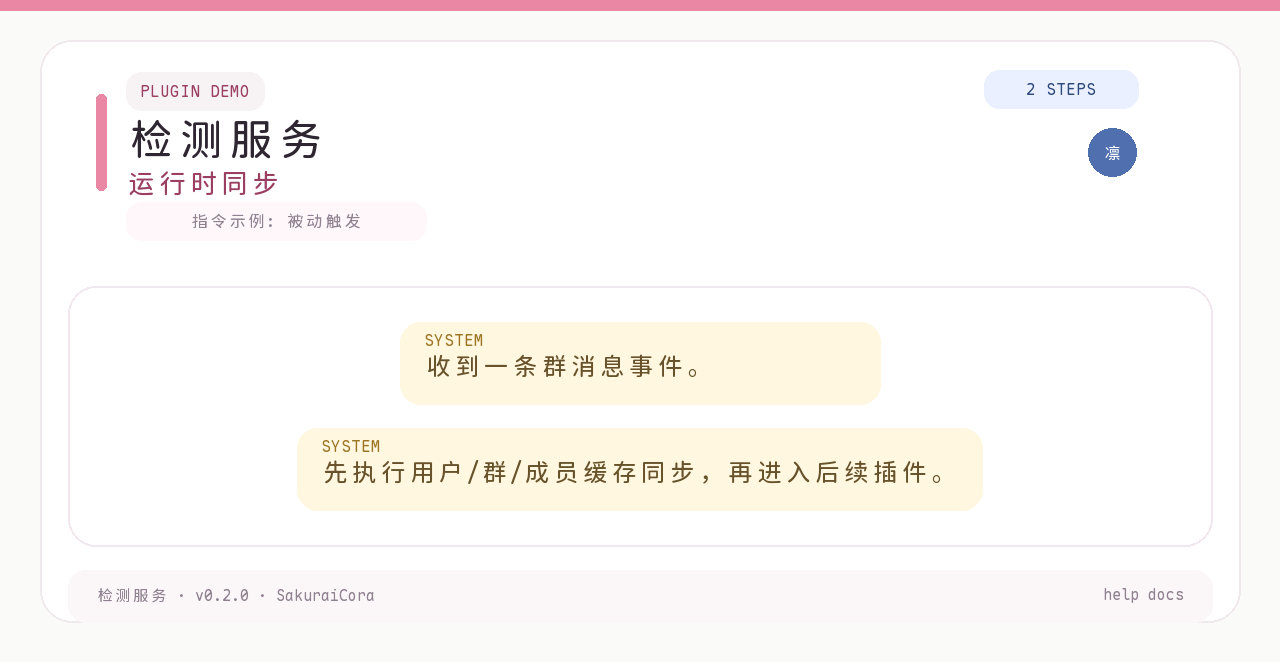
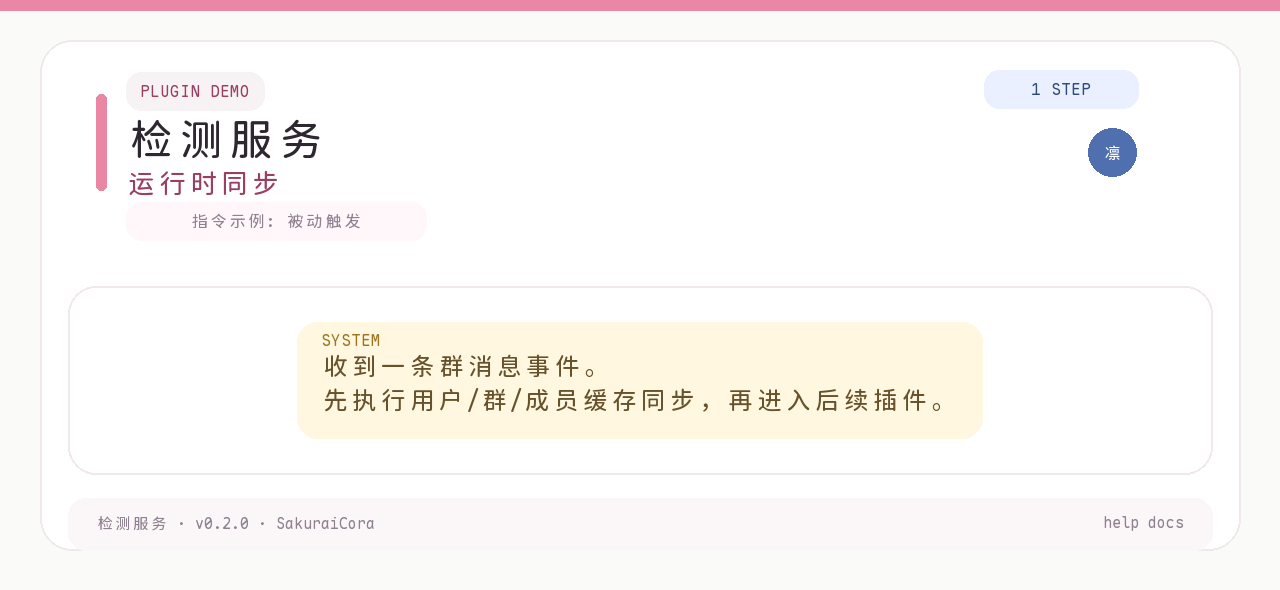
📝 docs(demo): 区分消息换行与多条发送

diff --git a/src/lib/plugin_docs.py b/src/lib/plugin_docs.py
@@ -509,18 +509,25 @@ def _parse_flow_section(block: str) -> tuple[str, tuple[DocsDemoTurn, ...]]:
         cleaned = (block[: fence_match.start()] + block[fence_match.end() :]).strip()
         for line in fence_match.group(1).splitlines():
             stripped = line.strip()
-            if not stripped or ":" not in stripped:
+            if not stripped:
                 continue
-            speaker, text = stripped.split(":", 1)
-            normalized = speaker.strip().upper()
-            if normalized not in {"USER", "BOT", "SYSTEM"}:
-                continue
-            demo_turns.append(
-                DocsDemoTurn(
-                    cast(Literal["USER", "BOT", "SYSTEM"], normalized),
-                    text.strip(),
+            if ":" in stripped:
+                speaker, text = stripped.split(":", 1)
+                normalized = speaker.strip().upper()
+                if normalized in {"USER", "BOT", "SYSTEM"}:
+                    demo_turns.append(
+                        DocsDemoTurn(
+                            cast(Literal["USER", "BOT", "SYSTEM"], normalized),
+                            text.strip(),
+                        )
+                    )
+                    continue
+            if demo_turns:
+                previous = demo_turns[-1]
+                demo_turns[-1] = DocsDemoTurn(
+                    previous.speaker,
+                    f"{previous.text}\n{stripped}",
                 )
-            )
     return cleaned.strip(), tuple(demo_turns)
 
 
@@ -1391,16 +1398,16 @@ class DemoImageRenderer:
     def _wrap_text(self, text: str, *, max_width: int) -> list[str]:
         draw = ImageDraw.Draw(Image.new("RGB", (10, 10), "#FFFFFF"))
         lines: list[str] = []
-        current = ""
-        for char in text:
-            candidate = current + char
-            bbox = draw.textbbox((0, 0), candidate, font=self.body_font)
-            if bbox[2] - bbox[0] <= max_width or not current:
-                current = candidate
-                continue
-            lines.append(current)
-            current = char
-        if current:
+        for paragraph in text.splitlines():
+            current = ""
+            for char in paragraph:
+                candidate = current + char
+                bbox = draw.textbbox((0, 0), candidate, font=self.body_font)
+                if bbox[2] - bbox[0] <= max_width or not current:
+                    current = candidate
+                    continue
+                lines.append(current)
+                current = char
             lines.append(current)
         return lines or [text]
 

diff --git a/tests/test_plugin_docs.py b/tests/test_plugin_docs.py
@@ -168,6 +168,62 @@ BOT: 操作完成
     assert any(segment.type == "image" for segment in message)
 
 
+def test_load_plugin_doc_bundle_distinguishes_message_newlines_from_turns(
+    tmp_path: Path,
+) -> None:
+    source = tmp_path / "README.MD"
+    source.write_text(
+        """
+# 测试插件
+
+## 概览
+用于测试 demo 换行。
+
+## 权限与触发
+- 触发方式: 指令触发
+- 权限: 普通用户
+
+## 子功能目录
+- `flow` 完整流程: 测试 demo 换行。
+
+## 子功能详情
+### `flow` 完整流程
+- 摘要: 测试 demo 换行。
+- 指令: `#flow`
+#### 说明
+这里是说明。
+#### 前置条件
+无
+#### 完整流程
+```demo
+USER: #flow
+BOT: 第一条消息第一行
+第一条消息第二行
+BOT: 第二条消息
+```
+#### 失败情况
+无
+""".strip(),
+        encoding="utf-8",
+    )
+
+    bundle = load_plugin_doc_bundle(
+        source=source,
+        default_name="测试插件",
+        default_description="desc",
+        trigger=TriggerType.COMMAND,
+        permission=Permission.NORMAL,
+    )
+
+    feature = bundle.index[0]
+
+    assert len(feature.demo_turns) == 3
+    assert feature.demo_turns[1].speaker == "BOT"
+    assert feature.demo_turns[1].text == "第一条消息第一行\n第一条消息第二行"
+    assert feature.demo_turns[2].speaker == "BOT"
+    assert feature.demo_turns[2].text == "第二条消息"
+
+
 def test_build_readme_docs_returns_ambiguous_hint(tmp_path: Path) -> None:
     source = tmp_path / "README.MD"
     source.write_text(

diff --git a/src/plugins/admin/docs/README.MD b/src/plugins/admin/docs/README.MD
@@ -28,7 +28,7 @@
 ```demo
 USER: #help 管理模块总览 group
 BOT: 群组管理负责处理群授权、封禁、退群和状态查询。
-BOT: 继续发送 #help 群组管理模块 <子功能名> 查看 demo。
+继续发送 #help 群组管理模块 <子功能名> 查看 demo。
 ```
 #### 失败情况
 如果直接把所有管理动作塞进总览文档，帮助消息会过长且不利于维护。
@@ -47,7 +47,7 @@ BOT: 继续发送 #help 群组管理模块 <子功能名> 查看 demo。
 ```demo
 USER: #help 管理模块总览 user
 BOT: 用户管理支持 ban / unban / status 三类操作。
-BOT: 继续发送 #help 用户管理模块 ban 查看完整流程。
+继续发送 #help 用户管理模块 ban 查看完整流程。
 ```
 #### 失败情况
 若后续新增动作，记得同步更新本总览和子模块 README。
@@ -66,7 +66,7 @@ BOT: 继续发送 #help 用户管理模块 ban 查看完整流程。
 ```demo
 USER: #help 管理模块总览 invite
 BOT: 邀请管理支持 list / approve / reject / ignore / log。
-BOT: 继续发送 #help 邀请管理模块 approve 查看完整流程。
+继续发送 #help 邀请管理模块 approve 查看完整流程。
 ```
 #### 失败情况
 如果项目当前没有邀请记录，详情页会说明如何用 list 或日志功能排查。
@@ -85,7 +85,7 @@ BOT: 继续发送 #help 邀请管理模块 approve 查看完整流程。
 ```demo
 USER: #help 管理模块总览 i18n
 BOT: 语言管理支持 show / default / set / clear / list。
-BOT: 继续发送 #help 语言管理模块 set 查看完整流程。
+继续发送 #help 语言管理模块 set 查看完整流程。
 ```
 #### 失败情况
 如果没有精确定位到子模块，帮助中心会先返回歧义或插件详情页。

diff --git a/src/plugins/help/docs/README.MD b/src/plugins/help/docs/README.MD
@@ -27,10 +27,10 @@
 ```demo
 USER: #help
 BOT: ===== 插件帮助索引 =====
-BOT: [core]
-BOT: - 帮助中心: 统一汇总插件文档，并按插件 metadata.docs 自动注册。
-BOT: [fun]
-BOT: - 吹水记录: 群聊活跃记录、画像、榜单与活动赛季。
+[core]
+- 帮助中心: 统一汇总插件文档，并按插件 metadata.docs 自动注册。
+[fun]
+- 吹水记录: 群聊活跃记录、画像、榜单与活动赛季。
 ```
 #### 失败情况
 如果当前没有可展示插件，帮助中心会返回“当前暂无可展示插件文档”。
@@ -49,10 +49,10 @@ BOT: - 吹水记录: 群聊活跃记录、画像、榜单与活动赛季。
 ```demo
 USER: #help 吹水记录
 BOT: ===== 吹水记录 =====
-BOT: 触发方式: 指令触发
-BOT: 权限: 普通用户
-BOT: 子功能目录:
-BOT: - profile (查看个人画像)
+触发方式: 指令触发
+权限: 普通用户
+子功能目录:
+- profile (查看个人画像)
 ```
 #### 失败情况
 如果插件名不存在，会提示先发送 `#help` 查看总表；如果命中多个插件，会返回候选列表。
@@ -71,8 +71,8 @@ BOT: - profile (查看个人画像)
 ```demo
 USER: #help 吹水记录 ranking
 BOT: ===== 吹水记录 / 查看周期榜单 =====
-BOT: 说明: 选择周榜、月榜、季榜、年榜或总榜查看排行。
-BOT: [附带一张完整 demo 图]
+说明: 选择周榜、月榜、季榜、年榜或总榜查看排行。
+[附带一张完整 demo 图]
 ```
 #### 失败情况
 如果子功能名不存在，会提示“未找到子功能文档”；如果命中多个子功能，会返回歧义候选。

diff --git a/src/plugins/notice/docs/group/README.MD b/src/plugins/notice/docs/group/README.MD
@@ -28,7 +28,7 @@
 ```demo
 SYSTEM: 机器人被踢出群 114514。
 BOT: [私聊超管] 群组被踢出
-BOT: 不好，被扔出来了，已自动拉黑...
+不好，被扔出来了，已自动拉黑...
 ```
 #### 失败情况
 如果通知发送失败，只会影响告警，不会阻止状态清理。
@@ -47,7 +47,7 @@ BOT: 不好，被扔出来了，已自动拉黑...
 ```demo
 SYSTEM: 群 114514 对机器人执行了禁言。
 BOT: [私聊超管] 群组禁言
-BOT: 检测到禁言行为，已自动退出群聊...
+检测到禁言行为，已自动退出群聊...
 ```
 #### 失败情况
 若某些连坐退群动作失败，会在通知里带上失败记录。
@@ -65,7 +65,7 @@ BOT: 检测到禁言行为，已自动退出群聊...
 整个同步过程对用户无感知。
 ```demo
 SYSTEM: 机器人加入新群 114514。
-SYSTEM: 自动执行群成员同步。
+自动执行群成员同步。
 ```
 #### 失败情况
 如果同步失败，应通过日志排查，不会主动给普通群成员提示。
@@ -83,7 +83,7 @@ SYSTEM: 自动执行群成员同步。
 自动更新缓存，不向用户输出文案。
 ```demo
 SYSTEM: 群名从“旧群名”改为“新群名”。
-SYSTEM: 已同步群缓存名称。
+已同步群缓存名称。
 ```
 #### 失败情况
 若缓存更新失败，只能通过日志排查，当前不会主动回退。

diff --git a/src/plugins/admin/docs/invite/README.MD b/src/plugins/admin/docs/invite/README.MD
@@ -48,7 +48,7 @@ BOT: [发送一张待处理邀请列表图片]
 ```demo
 USER: #admin invite approve -g 114514
 BOT: 已同意群聊邀请 17
-BOT: 群号：114514
+群号：114514
 ```
 #### 失败情况
 若邀请已被处理或无法定位到记录，会直接返回失败原因。
@@ -67,7 +67,7 @@ BOT: 群号：114514
 ```demo
 USER: #admin invite reject --all
 BOT: ========== 批量拒绝 ==========
-BOT: 统计: 共拒绝了 3 个待处理邀请。
+统计: 共拒绝了 3 个待处理邀请。
 ```
 #### 失败情况
 如果当前没有待拒绝邀请，会提示“当前没有需要拒绝的待处理邀请哦”。
@@ -86,7 +86,7 @@ BOT: 统计: 共拒绝了 3 个待处理邀请。
 ```demo
 USER: #admin invite ignore -g 114514
 BOT: ======= 操作成功: 已忽略 =======
-BOT: 群号：114514
+群号：114514
 ```
 #### 失败情况
 如果当前没有待忽略邀请，会返回对应提示。

diff --git a/src/hooks/docs/processor/README.MD b/src/hooks/docs/processor/README.MD
@@ -25,7 +25,7 @@
 同步动作对用户透明。
 ```demo
 SYSTEM: 收到一条群消息事件。
-SYSTEM: 先执行用户/群/成员缓存同步，再进入后续插件。
+先执行用户/群/成员缓存同步，再进入后续插件。
 ```
 #### 失败情况
 若缓存依赖的 API 不可用，可能导致部分字段缺失，需要通过日志排查。
@@ -43,7 +43,7 @@ SYSTEM: 先执行用户/群/成员缓存同步，再进入后续插件。
 按固定顺序检查用户忽略、超管放行、全局黑名单、群授权和群黑名单。
 ```demo
 SYSTEM: 收到一条来自未授权群的消息。
-SYSTEM: runtime-check 判定群聊未授权，事件被提前忽略。
+runtime-check 判定群聊未授权，事件被提前忽略。
 ```
 #### 失败情况
 如果群缓存缺失且无法补齐，默认会阻止群事件继续进入业务插件。

diff --git a/docs/plugin-demo-visual-checklist.md b/docs/plugin-demo-visual-checklist.md
@@ -15,6 +15,7 @@ Use this checklist after regenerating plugin demo PNG files.
 - Bounds: no text, avatar, chip, bubble, or footer content leaves its container.
 - Overlap: no color block covers text, avatars, bubbles, panel borders, or footer text.
 - Text: long commands and replies wrap cleanly without clipping or touching edges.
+- Message semantics: one sent message with newlines uses one speaker line plus continuation lines; multiple sent messages repeat `USER:`, `BOT:`, or `SYSTEM:`.
 - Bubbles: USER, BOT, and SYSTEM bubbles fit content without looking oversized.
 - Color: keep the visible palette restrained to white, sakura pink, indigo, muted gray, and soft system yellow.
 - Hierarchy: plugin title is strongest, feature title is secondary, command and footer are muted.

diff --git a/src/plugins/water/docs/README.MD b/src/plugins/water/docs/README.MD
@@ -85,7 +85,7 @@ BOT: [发送月榜图片]
 ```demo
 USER: #水王 成就
 BOT: ===== 成就总览 =====
-BOT: [成就进度文本或图片]
+[成就进度文本或图片]
 ```
 #### 失败情况
 如果当前没有足够数据，可能会只返回基础提示，不会展示完整进度。
@@ -143,8 +143,8 @@ BOT: 已记录为“同意合并”啦
 ```demo
 USER: #water help
 BOT: ===== Water Admin =====
-BOT: 1. settle [YYYYMMDD] [-f|--force]
-BOT: 2. pardon <penalty_id>
+1. settle [YYYYMMDD] [-f|--force]
+2. pardon <penalty_id>
 USER: #water settle 20260608 -f
 BOT: Water 结算任务执行中，请稍候...
 ```

diff --git a/src/plugins/admin/docs/i18n/README.MD b/src/plugins/admin/docs/i18n/README.MD
@@ -29,8 +29,8 @@
 ```demo
 USER: #admin i18n show 114514
 BOT: ===== i18n 状态 =====
-BOT: 全局默认: zh-CN
-BOT: 生效语言: lzh
+全局默认: zh-CN
+生效语言: lzh
 ```
 #### 失败情况
 不在群聊且没有提供群号时，会提示显式提供群号。
@@ -103,7 +103,7 @@ BOT: 已清除群 114514 的语言覆盖。
 ```demo
 USER: #admin i18n list
 BOT: ===== 群级语言覆盖 =====
-BOT: - 114514: lzh
+- 114514: lzh
 ```
 #### 失败情况
 如果没有任何群级覆盖，会提示当前为空。

diff --git a/src/plugins/notice/docs/README.MD b/src/plugins/notice/docs/README.MD
@@ -27,7 +27,7 @@
 ```demo
 USER: #help 通知模块总览 group
 BOT: 群组事件处理负责禁言退群、被踢清理和入群同步。
-BOT: 继续发送 #help 群组事件处理 ban-cleanup 查看完整流程。
+继续发送 #help 群组事件处理 ban-cleanup 查看完整流程。
 ```
 #### 失败情况
 如果希望在索引中直接展示该模块，需要同步调整 metadata 的 visible 设置。
